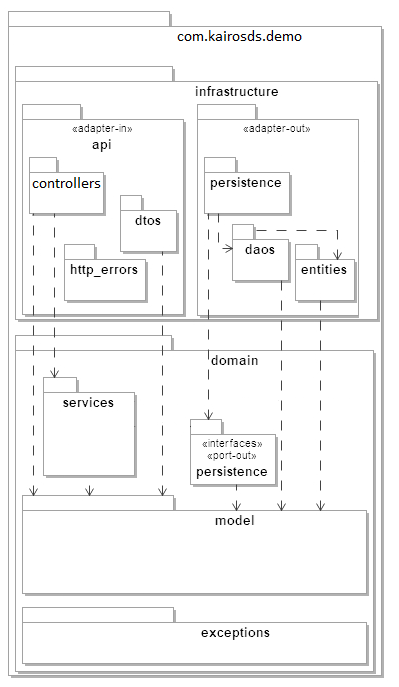
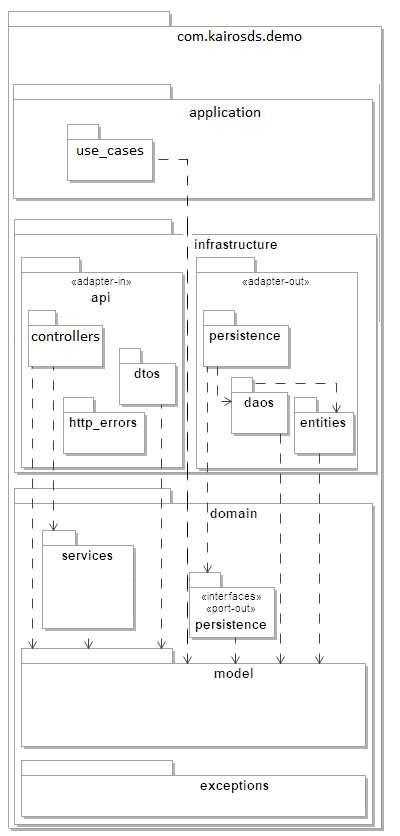
feat: added use case. added new endpoint /ping

Changed region(s): [[0.0301, 0.0306, 0.9624, 1.0], [0.4211, 0.0, 0.782, 0.0611]]

diff --git a/src/main/java/com/kairosds/demo/infrastructure/api/controllers/PriceController.java b/src/main/java/com/kairosds/demo/infrastructure/api/controllers/PriceController.java
@@ -1,6 +1,6 @@
 package com.kairosds.demo.infrastructure.api.controllers;
 
-import com.kairosds.demo.domain.services.PriceService;
+import com.kairosds.demo.application.use_cases.FindCurrentPriceUseCase;
 import com.kairosds.demo.infrastructure.api.dtos.PriceDto;
 import org.springframework.beans.factory.annotation.Autowired;
 import org.springframework.format.annotation.DateTimeFormat;
@@ -19,11 +19,11 @@ public class PriceController {
 
     public static final String SEARCH = "/search";
 
-    private final PriceService priceService;
+    private final FindCurrentPriceUseCase findCurrentPriceUseCase;
 
     @Autowired
-    public PriceController(PriceService priceService) {
-        this.priceService = priceService;
+    public PriceController(FindCurrentPriceUseCase findCurrentPriceUseCase) {
+        this.findCurrentPriceUseCase = findCurrentPriceUseCase;
     }
 
     @GetMapping(SEARCH)
@@ -31,7 +31,7 @@ public class PriceController {
             @RequestParam long brandId,
             @RequestParam long productId,
             @RequestParam @DateTimeFormat(iso = DateTimeFormat.ISO.DATE_TIME) LocalDateTime applicationDate) {
-        return new PriceDto(priceService.findCurrentPrice(brandId, productId, applicationDate));
+        return new PriceDto(findCurrentPriceUseCase.findCurrentPrice(brandId, productId, applicationDate));
     }
 
 }

diff --git a/src/main/java/com/kairosds/demo/domain/services/PriceService.java b/src/main/java/com/kairosds/demo/domain/services/PriceService.java
@@ -1,5 +1,6 @@
 package com.kairosds.demo.domain.services;
 
+import com.kairosds.demo.application.use_cases.FindCurrentPriceUseCase;
 import com.kairosds.demo.domain.exceptions.NotFoundCurrentPriceException;
 import com.kairosds.demo.domain.model.Price;
 import com.kairosds.demo.domain.persistence.PricePersistence;
@@ -14,7 +15,7 @@ import java.util.stream.Collectors;
 
 @Service
 @Slf4j
-public class PriceService {
+public class PriceService implements FindCurrentPriceUseCase {
 
     private final PricePersistence pricePersistence;
 

diff --git a/src/main/java/com/kairosds/demo/infrastructure/api/controllers/PingController.java b/src/main/java/com/kairosds/demo/infrastructure/api/controllers/PingController.java
@@ -1,0 +1,18 @@
+package com.kairosds.demo.infrastructure.api.controllers;
+
+import org.springframework.http.HttpStatus;
+import org.springframework.web.bind.annotation.*;
+
+@RestController
+@RequestMapping(PingController.PING)
+public class PingController {
+
+    public static final String PING = "/ping";
+
+    @GetMapping()
+    @ResponseStatus(HttpStatus.OK)
+    public void ping() {
+        // Empty for framework
+    }
+
+}

diff --git a/src/main/java/com/kairosds/demo/application/use_cases/FindCurrentPriceUseCase.java b/src/main/java/com/kairosds/demo/application/use_cases/FindCurrentPriceUseCase.java
@@ -1,0 +1,11 @@
+package com.kairosds.demo.application.use_cases;
+
+import com.kairosds.demo.domain.model.Price;
+
+import java.time.LocalDateTime;
+
+public interface FindCurrentPriceUseCase {
+
+    Price findCurrentPrice(long brandId, long productId, LocalDateTime applicationDate);
+
+}

diff --git a/README.md b/README.md
@@ -26,7 +26,8 @@
 ```sh
 > mvn spring-boot:run 
 ```
-5. Enjoy!
+5. La API REST queda expuesta en la URL: **http://localhost:8082/api/v0**
+6. Para comprobarlo puede realizar una petición HTTP de tipo GET a **http://localhost:8082/api/v0/ping**
 
 ### Arquitectura hexagonal (diagrama de paquetes)
 ![Arquitectura hexagonal - Diagrama de paquetes](docs/diagrama-de-paquetes.png))
